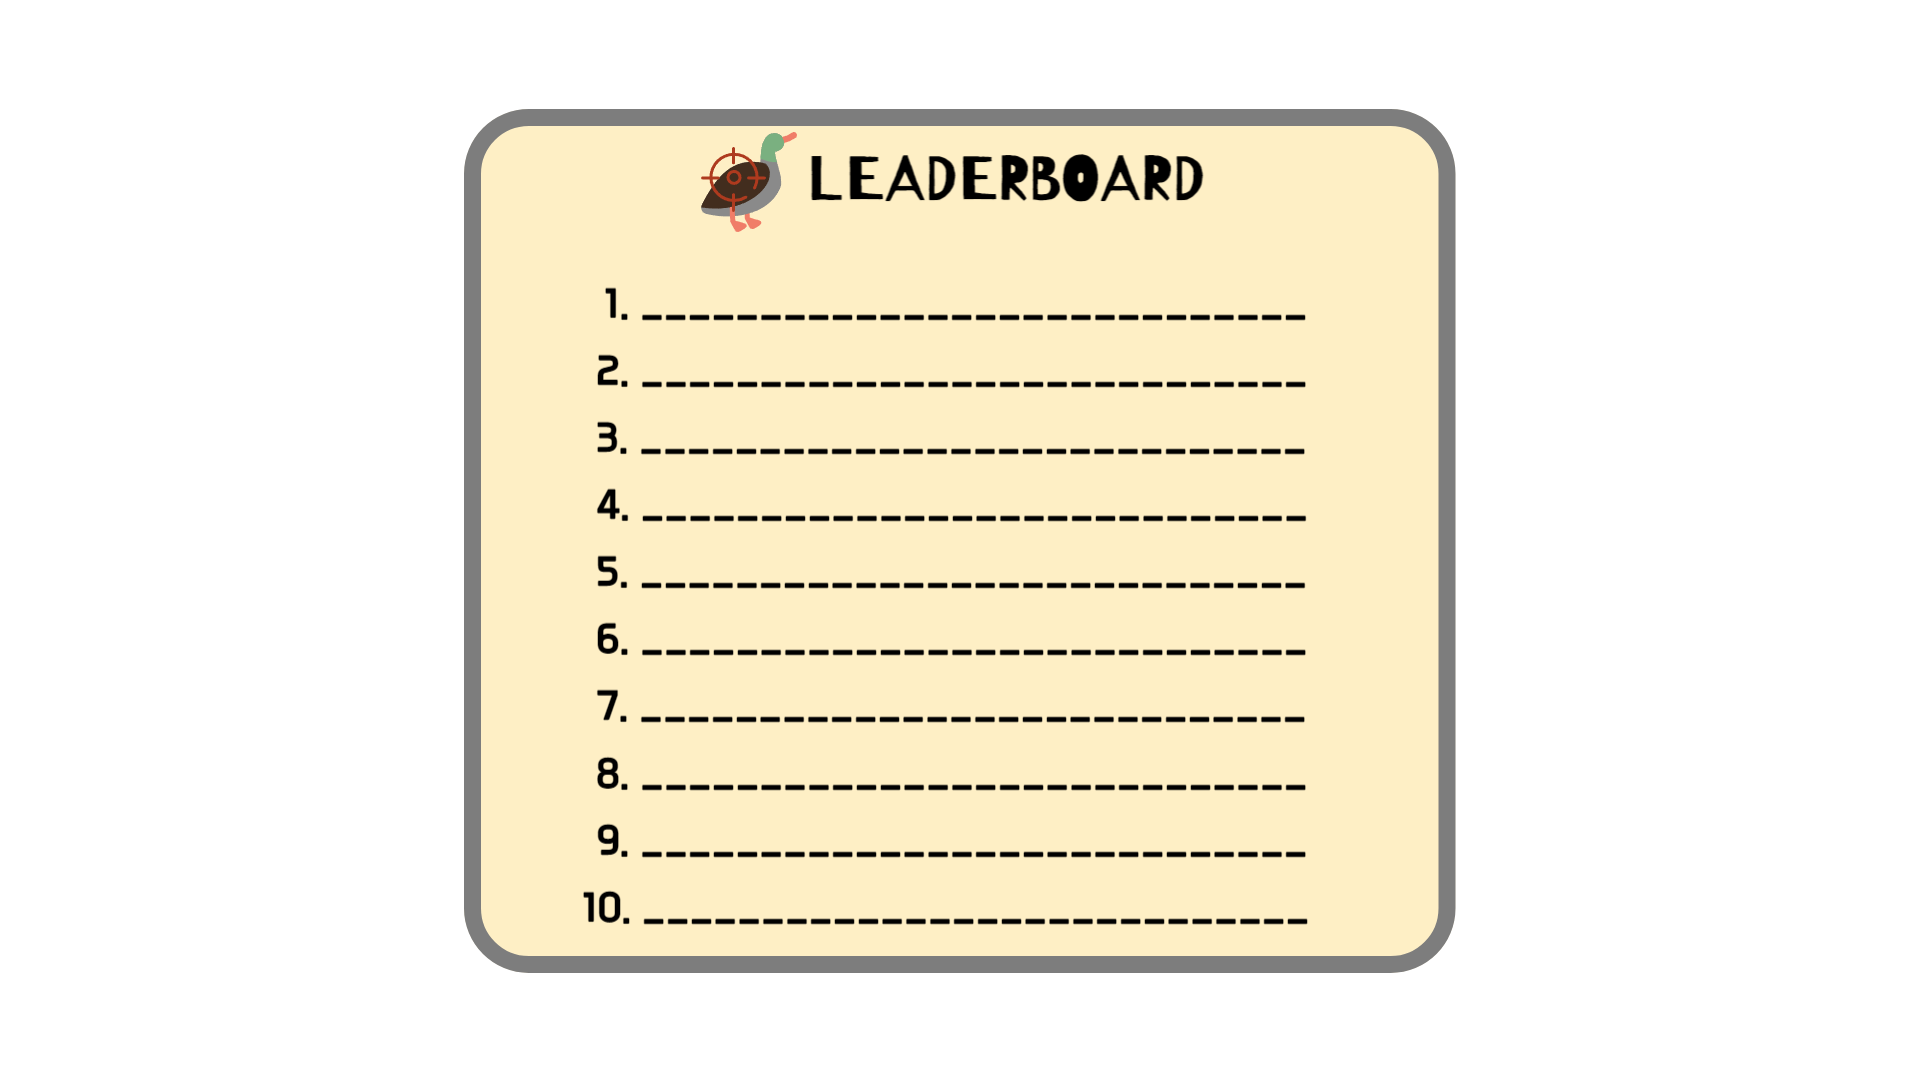
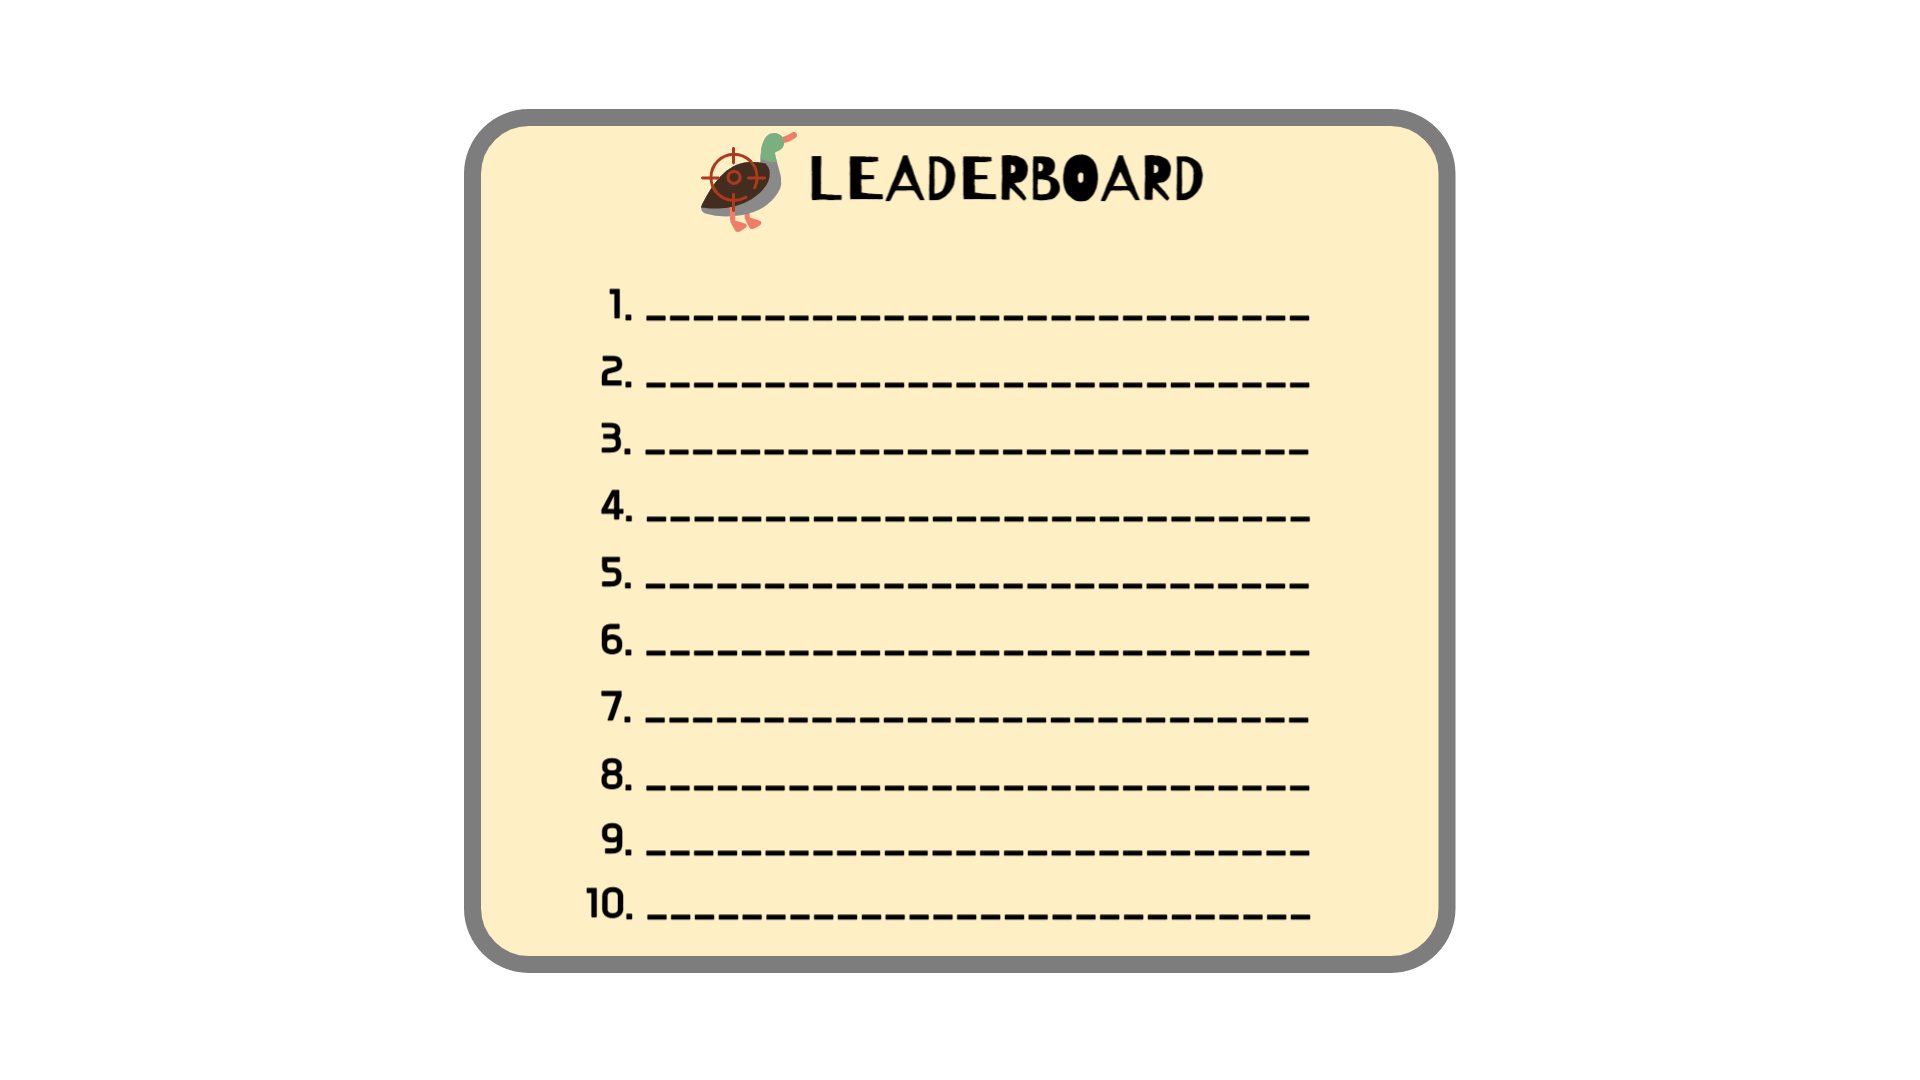
화면 비율 변경해도 리더보드 크기 유지 추가

diff --git a/src/main/java/kr/jbnu/se/std/Leaderboard.java b/src/main/java/kr/jbnu/se/std/Leaderboard.java
@@ -18,9 +18,9 @@ import java.util.HashMap;
  */
 
 public class Leaderboard {
-    private static FirebaseDatabase db = FirebaseDatabase.getInstance();
+    private static final FirebaseDatabase db = FirebaseDatabase.getInstance();
     private static DatabaseReference usersRef = db.getReference("users");
-    private static DatabaseReference leaderboardRef = db.getReference("users/leaderboard");;
+    private static DatabaseReference leaderboardRef = db.getReference("users/leaderboard");
     private static final List<Map.Entry<String, Integer>> leaderboardList = new ArrayList<>();
 
     public Leaderboard() {
@@ -67,11 +67,11 @@ public class Leaderboard {
                 // 현재 사용자의 topScore를 가져옴
                 Integer topScore = dataSnapshot.child("userInfo/" + sanitizedEmail + "/topScore").getValue(Integer.class);
                 String nickname = dataSnapshot.child("userInfo/" + sanitizedEmail + "/nickname").getValue(String.class);
+                Map<String, Object> userUpdates = new HashMap<>();
 
                 // topScore와 currentScore 비교
                 if (topScore == null || score > topScore) {
                     // currentScore가 topScore보다 크면 topScore를 currentScore로 업데이트
-                    Map<String, Object> userUpdates = new HashMap<>();
                     userUpdates.put("userInfo/" + sanitizedEmail + "/topScore", score);
                     userUpdates.put("userInfo/" + sanitizedEmail + "/currentScore", score);
                     userUpdates.put("leaderboard/" + nickname, score);
@@ -83,7 +83,6 @@ public class Leaderboard {
                     System.out.println("Updated topScore to: " + score);
                 } else {
                     // currentScore는 그대로 저장
-                    Map<String, Object> userUpdates = new HashMap<>();
                     userUpdates.put("userInfo/" + sanitizedEmail + "/currentScore", score);
 
                     usersRef.updateChildrenAsync(userUpdates);
@@ -110,7 +109,7 @@ public class Leaderboard {
 
         g.setColor(Color.BLACK);
 
-        int y = 165; // 리더보드 점수 출력 시작 위치
+        int y = (int) (panelHeight * (174.0 / 720));
 
         // 상위 10명의 리더보드 점수 출력
         for (int i = 0; i < Math.min(10, leaderboardList.size()); i++) {
@@ -118,11 +117,12 @@ public class Leaderboard {
             String leaderboardEntry = entry.getKey() + " ( " + entry.getValue() + " )";
 
             // 화면 중앙에 맞추기 위한 x 위치 계산
-            int textX = panelWidth / 3;
+            int textX = (int) (panelWidth / 3.0);
             int textY = y;
 
-            g.drawString(leaderboardEntry, textX + 5, textY + fontSize);
-            y += fontSize + 13; // 다음 줄로 이동
+            g.drawString(leaderboardEntry, textX + (int) (panelWidth * (5.0 / 1280)), textY + fontSize);
+            y += fontSize + (int) (panelHeight * (14.0 / 720));
+            // 다음 줄로 이동
 
         }
     }

diff --git a/src/main/java/kr/jbnu/se/std/SignUpUI.java b/src/main/java/kr/jbnu/se/std/SignUpUI.java
@@ -70,6 +70,13 @@ public class SignUpUI extends JPanel {
         gbc.gridwidth = 1;
         add(registerButton, gbc);
 
+        // 로그인 화면으로 돌아가는 BACK 버튼 추가
+        JButton backButton = new JButton("BACK");
+        gbc.gridx = 0;
+        gbc.gridy = 3;
+        gbc.gridwidth = 1;
+        add(backButton, gbc);
+
         // 회원가입 결과를 표시할 레이블
         messageLabel = new JLabel();
         gbc.gridx = 0;
@@ -80,6 +87,11 @@ public class SignUpUI extends JPanel {
         // 회원가입 버튼에 대한 액션 리스너 추가
         registerButton.addActionListener(e -> {
             handleRegistration();  // 회원가입 처리 메소드 호출
+        });
+
+        // 돌아가기 버튼에 대한 액션 리스너 추가
+        backButton.addActionListener(e ->{
+            window.switchToLogin();
         });
     }
 

diff --git a/src/main/java/kr/jbnu/se/std/Framework.java b/src/main/java/kr/jbnu/se/std/Framework.java
@@ -119,7 +119,7 @@ public class Framework extends Canvas {
         }
         try
         {
-            URL leaderboardImgUrl = this.getClass().getResource("/images/LeaderBoard.png");
+            URL leaderboardImgUrl = this.getClass().getResource("/images/leaderboard.png");
             leaderboardImg = ImageIO.read(leaderboardImgUrl);
         }
         catch (IOException ex) {
